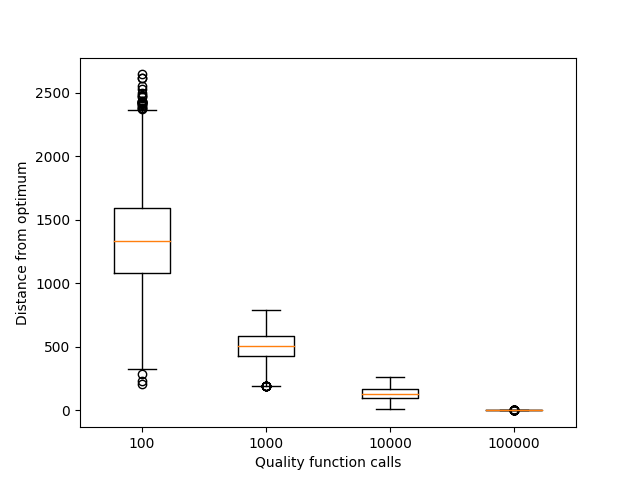
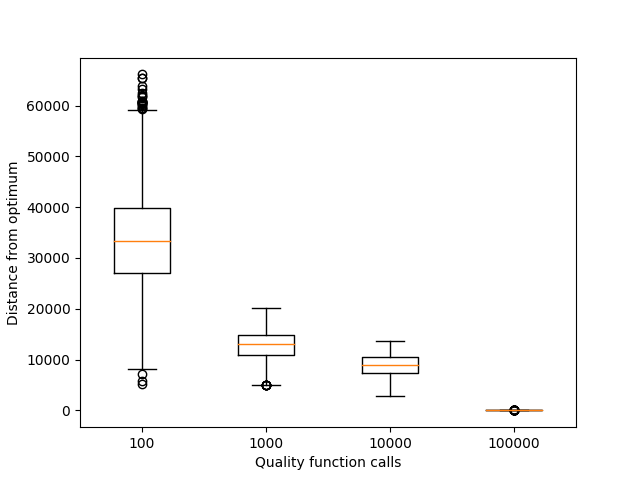
Change parameters bounds in sphere problem

diff --git a/main.py b/main.py
@@ -21,13 +21,13 @@ if __name__ == '__main__':
     number_of_experiment_repetitions = 25
 
     is_algorithm_minimizing_function = True
-    sigma = 0.125
+    sigma = 0.2
     small_population_size = 10
     big_population_size = 100
 
     # Variables describing optimized function
     sphere_dimensionality = 10
-    sphere_parameter_bounds = [(-20, 20)] * sphere_dimensionality
+    sphere_parameter_bounds = [(-100, 100)] * sphere_dimensionality
     sphere_optimal_quality_function_value = 0
 
     # Objects used for collection and processing of data from evolution process
